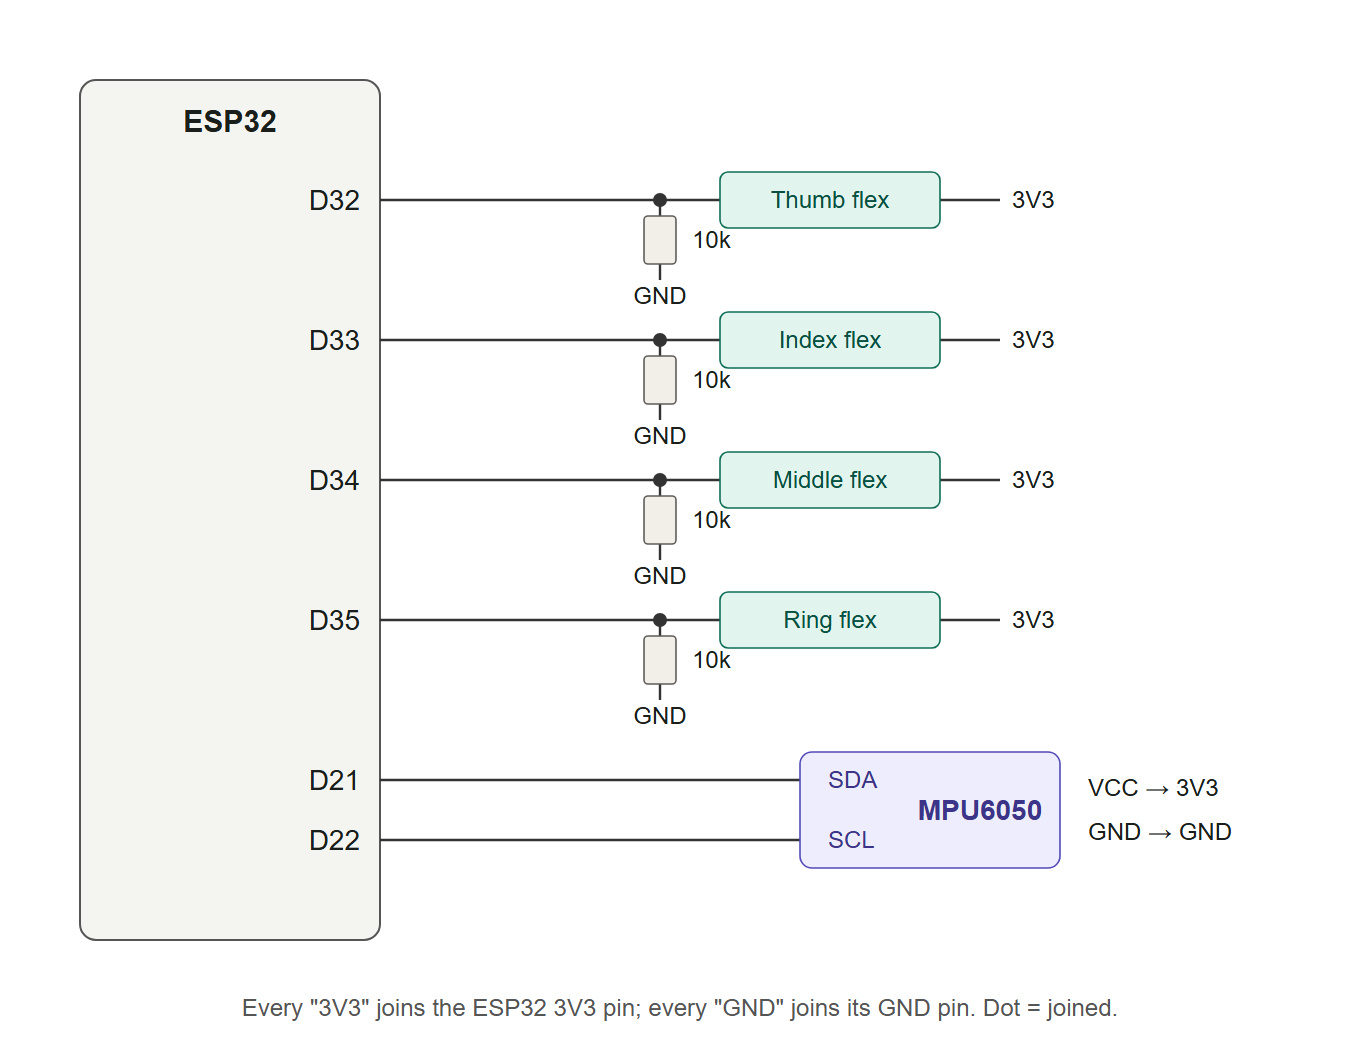
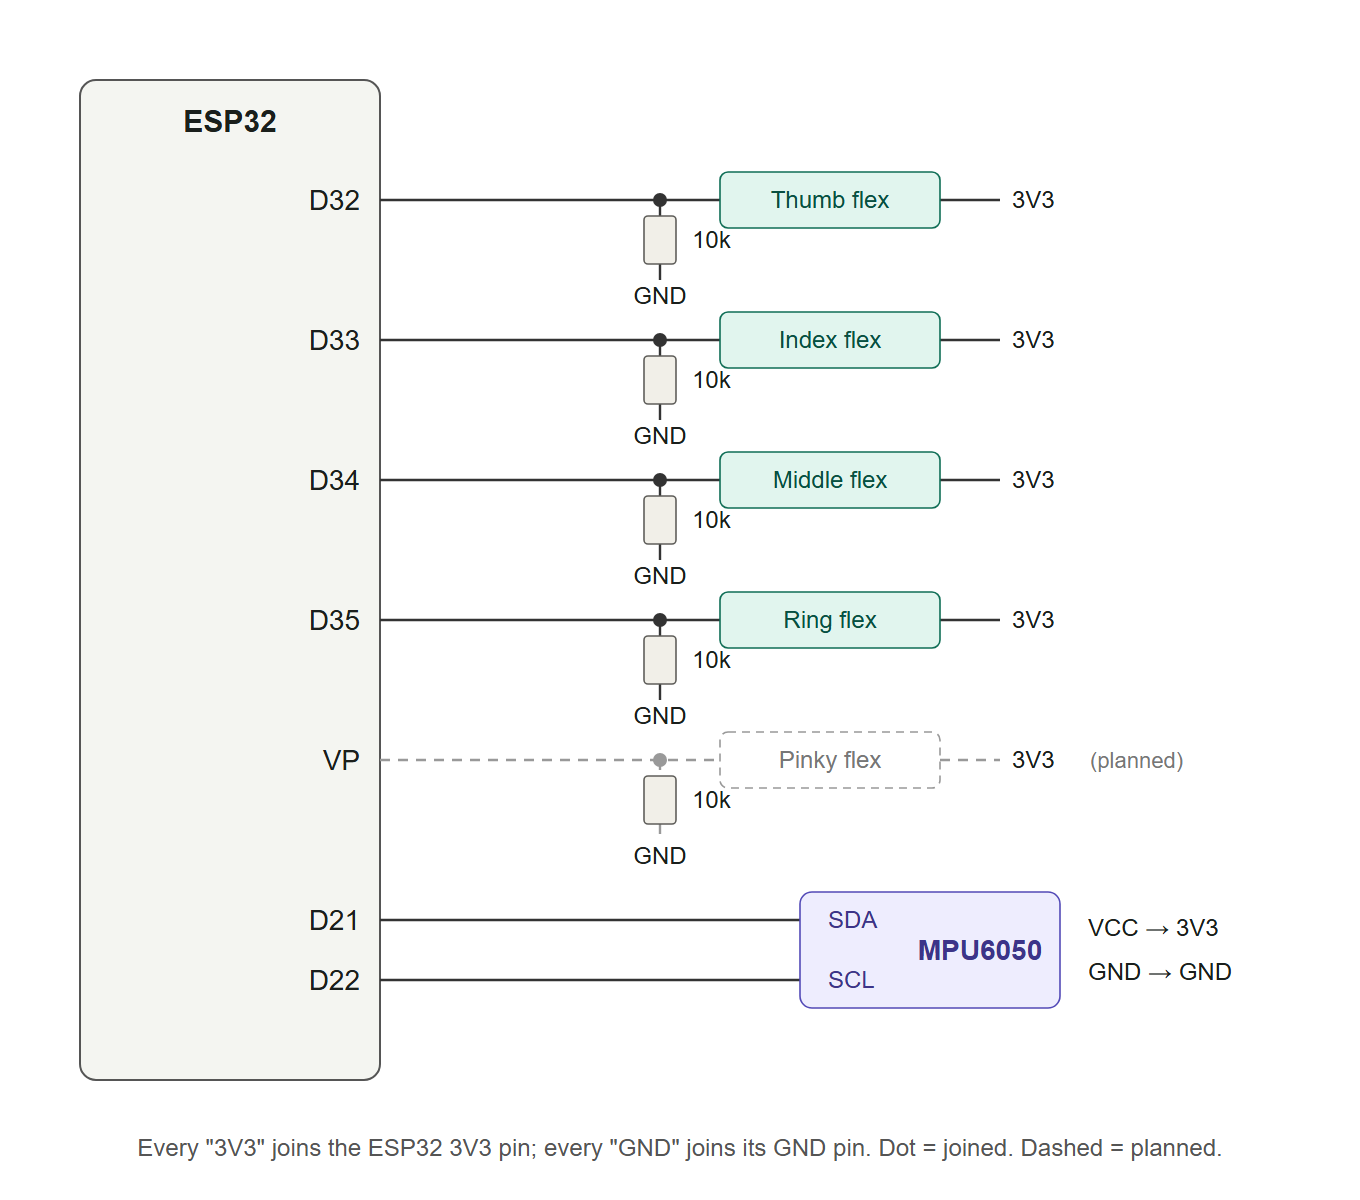
Keep the pinky as a planned fifth sensor
The pinky sensor was damaged, so the glove runs on four fingers for now.
The schematic, README, build guide and notes show it as planned on VP
(GPIO 36), and the firmware and app keep its packet and frame slot.

diff --git a/app/index.html b/app/index.html
@@ -310,7 +310,7 @@
 'use strict';
 const $ = id => document.getElementById(id);
 const clamp = (v, a, b) => Math.max(a, Math.min(b, v));
-const FINGERS = ['Thumb', 'Index', 'Middle', 'Ring'];      // the glove has no pinky sensor
+const FINGERS = ['Thumb', 'Index', 'Middle', 'Ring'];      // pinky sensor to be added back later (frame slot 4)
 // Two kinds of input, each with its own recordings and model:
 //   glove  = 11 numbers per frame at 50 Hz (5 bends, accel, gyro)
 //   cam    = 132 numbers per frame at 25 Hz (up to 2 hands x 21 tracked points from the phone camera)
@@ -369,7 +369,7 @@ function save() {
 const vocabOf = name => data.vocab.find(v => v.name === name);
 
 /* ---------------- input: glove or simulation ---------------- */
-// A frame is 11 numbers: bend 0..1 for thumb, index, middle, ring, then one unused slot (the old pinky, always 0),
+// A frame is 11 numbers: bend 0..1 for thumb, index, middle, ring, then the pinky slot (always 0 until that sensor is replaced),
 // accel x y z in g, gyro x y z in 100 deg/s.
 const inp = { src: 'none', raw: [0, 0, 0, 0, 0], frame: new Array(11).fill(0), flags: 0, mpu: false, count: 0, device: null, buf: [], n: 0, rec: null };
 const bendOf = (i, raw) => {

diff --git a/docs/build-guide.html b/docs/build-guide.html
@@ -193,6 +193,7 @@ svg .tag.red{fill:var(--w-red)} svg .tag.blk{fill:var(--ink)} svg .tag.sda{fill:
       <tr><td>Middle</td><td>19</td><td><span class="pin">D34</span></td><td><span class="sw" style="background:var(--c3)"></span>green</td></tr>
       <tr><td>Ring</td><td>36</td><td><span class="pin">D35</span></td><td><span class="sw" style="background:var(--c4)"></span>blue</td></tr>
     </table></div>
+    <p class="note">The pinky sensor is planned: it will go on <span class="pin">VP</span> (GPIO 36) with its own 10 kΩ resistor, wired the same way.</p>
     <p class="note">Use any colours you have, but give each finger its own and write it down. It makes faults much easier to find.</p>
     <label class="done-row"><input type="checkbox"> Done</label>
   </div></div>

diff --git a/ml/train.py b/ml/train.py
@@ -8,7 +8,8 @@ Glove and camera recordings are trained and tested separately.
 Prints 5-fold cross-validated accuracy for KNN (the model the app uses) and a Random Forest,
 per-sign accuracy, and saves confusion_matrix_glove.png / confusion_matrix_cam.png for the report.
 Simulated (keyboard) recordings are left out unless you pass --include-sim.
-The glove has four flex sensors (thumb, index, middle, ring); the pinky slot in the data is not used.
+The glove uses four flex sensors for now (thumb, index, middle, ring); the pinky slot in the data stays 0
+until the pinky sensor is replaced.
 Pass --ignore=ring (or --ignore=ring,thumb) to leave a broken finger out of the glove model.
 """
 import json, sys
@@ -39,7 +40,7 @@ def cam_features(fr):
 
 def features(fr):
     """Same 52 features as index.html: 6 time-segment means of the 4 fingers + accel (6 x 7), each finger's
-    range (4), and gyro mean/max per axis (6). Frame layout: 0-3 fingers, 4 unused (old pinky), 5-7 accel, 8-10 gyro."""
+    range (4), and gyro mean/max per axis (6). Frame layout: 0-3 fingers, 4 pinky (unused for now), 5-7 accel, 8-10 gyro."""
     fr = np.asarray(fr, dtype=float)
     segs = np.array_split(fr, 6)
     out = [s[:, [0, 1, 2, 3, 5, 6, 7]].mean(axis=0) for s in segs]

diff --git a/docs/project-notes.md b/docs/project-notes.md
@@ -60,8 +60,9 @@ With R_flex ≈ 25–35 kΩ straight and R_fixed = 10 kΩ, the pin sits at about
 | Index | D33 | 33 |
 | Middle | D34 | 34 |
 | Ring | D35 | 35 |
+| Pinky (planned) | VP | 36 |
 
-The glove has no pinky sensor: the first one failed after soldering, so the design uses four fingers.
+The first pinky sensor was damaged during soldering, so the glove runs on four fingers for now. A new sensor goes on VP; the packet and the app already keep a slot for it.
 
 | MPU6050 pin | Connected to |
 |---|---|
@@ -165,7 +166,7 @@ File: `index.html`, a single page that runs in Chrome or Edge.
 |---|---|
 | Firmware compiles and uploads (115200 baud, COM7) | ✅ Verified, hash checked |
 | Thumb, index, middle, ring connected | ✅ Read about 710 / 805 / 885 / 830 when straight |
-| Pinky sensor | ❌ Unreliable even after re-soldering; removed from the design |
+| Pinky sensor | ❌ Unreliable even after re-soldering; to be replaced (future scope) |
 | Thumb wire pulled out of 3V3 → reading drops to 0 | ✅ Proves the sensor is in the circuit |
 | Noise at rest after the 16-read averaging | ✅ About ±13 (range about 26) |
 | Bend response on the glove (22 Nov) | ✅ Open hand → fist: thumb 170, index 382, middle 226, ring 330 |
@@ -189,7 +190,7 @@ Report the numbers you get, and say how many people recorded and under what cond
 | AirBeat prototype: MPU not found, D33 drifting | 3V3 jumper on the wrong ESP32 pin; D33 wire one column off; breadboard rail split in the middle | Rewired from scratch with a step-by-step guide; bridged the split rails |
 | Firmware wouldn't build on Windows | The build tool couldn't find `cmd.exe` on the shell's PATH | Added the Windows system folder to PATH |
 | All four fingers jumped from about 850 to about 3000 at once | The 3V3 and GND feeds to the rails had been swapped | Swapped back; the readings returned to normal. The MPU was reverse-powered during this |
-| Pinky read 0 (then briefly 1118), then kept flickering | Damaged sensor or solder joint on the thin extension wires | Re-soldered twice; still unreliable, so the pinky was removed and the glove uses four fingers |
+| Pinky read 0 (then briefly 1118), then kept flickering | Damaged sensor or solder joint on the thin extension wires | Re-soldered twice; still unreliable, so the glove runs on four fingers until a new pinky sensor is fitted |
 | Readings noisy (±60–170) | ESP32 ADC noise | Average 16 reads per sample in firmware → about ±13 |
 | Small bend response | Bending only the stiff end, or the wrong direction; 10 kΩ isn't the ideal match for a 25 kΩ sensor | Bend the whole dark strip; use 47 kΩ (≈ √(25k × 100k)) for about twice the swing; Spectra warns that soldering on the tabs can damage the sensor |
 | Camera blocked on a phone over http | Browsers only allow camera and Bluetooth on https or localhost | Run on the laptop (localhost) or host on GitHub Pages (https) |

diff --git a/README.md b/README.md
@@ -72,7 +72,7 @@ python ml/train.py signbridge-data-*.json        # k-NN vs Random Forest, groupe
 | 10 kΩ resistor (33–47 kΩ gives a bigger swing) | 4 | pin → GND |
 | MPU6050 (GY-521) | 1 | SDA D21, SCL D22 |
 
-Each finger is a voltage divider read by the ESP32's ADC1 pins (ADC2 is shared with the radio). The glove has no pinky sensor.
+Each finger is a voltage divider read by the ESP32's ADC1 pins (ADC2 is shared with the radio). A pinky sensor on VP (GPIO 36) is planned: the first one was damaged during soldering, so the glove runs on four fingers until it is replaced.
 
 The firmware takes a trimmed mean of 16 reads per sample and smooths adaptively. That holds a resting finger steady but lets real bends through quickly. The app's *Re-zero* button corrects flex-sensor creep.
 
@@ -95,6 +95,7 @@ Accuracy figures will be added here after the dataset is recorded. They'll come 
 ## Limitations
 
 - **Single, isolated signs** from the right hand; no continuous sentences, no two-handed signs.
+- **No pinky sensor yet**, so handshapes that differ only in the little finger can't be told apart.
 - **The glove can't sense where the hand is** relative to the body, only finger bend, tilt and motion.
 - **Camera accuracy** depends on lighting and distance.
 - **Google's pre-trained model** knows 7 everyday gestures, not ISL. The fine-tuned model is meant to recognise ISL.
